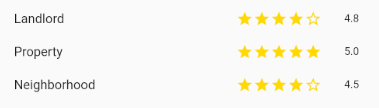
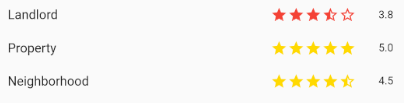
v1.1.0

diff --git a/lib/stardisplay.dart b/lib/stardisplay.dart
@@ -1,7 +1,7 @@
 import 'package:flutter/material.dart';
 
 class StarDisplay extends StatelessWidget {
-  final int value;
+  final double value;
   final double size;
   final Color color;
 
@@ -19,7 +19,13 @@ class StarDisplay extends StatelessWidget {
       mainAxisSize: MainAxisSize.min,
       children: List.generate(5, (index) {
         return Icon(
-          index < value ? Icons.star : Icons.star_border,
+          (value == 5)
+              ? Icons.star
+              : index + 1 < value
+                  ? Icons.star
+                  : (index == value.toInt() && value % 1 != 0)
+                      ? Icons.star_half
+                      : Icons.star_border,
           color: this.color,
           size: this.size,
         );

diff --git a/example/lib/main.dart b/example/lib/main.dart
@@ -24,7 +24,7 @@ class Home extends StatelessWidget {
           child:
           FeatureStar(
             data: [
-              FeatureData(featureText: 'Landlord', rate: 4.8, starColor: Colors.red),
+              FeatureData(featureText: 'Landlord', rate: 3.8, starColor: Colors.red),
               FeatureData(featureText: 'Property', rate: 5.0),
               FeatureData(featureText: 'Neighborhood', rate: 4.5),
             ],

diff --git a/lib/featurestar.dart b/lib/featurestar.dart
@@ -28,7 +28,7 @@ class FeatureStar extends StatelessWidget {
           Row(
             children: <Widget>[
               StarDisplay(
-                value: x.rate.toInt(),
+                value: x.rate,
                 size: x.starSize,
                 color: x.starColor,
               ),

diff --git a/CHANGELOG.md b/CHANGELOG.md
@@ -7,3 +7,9 @@ All notable changes to this project will be documented in this file.
 ### Added
 
 -   Initial Commit
+
+## 1.1.0 - 2020-05-03
+
+### Added
+
+-   Stars can have half stars now

diff --git a/README.md b/README.md
@@ -8,7 +8,7 @@ A star rating package with features
 
 ```yaml
 dependencies:  
-  featurestar  : ^1.0.0
+  featurestar  : ^1.1.0
 ```
 
 ```console
